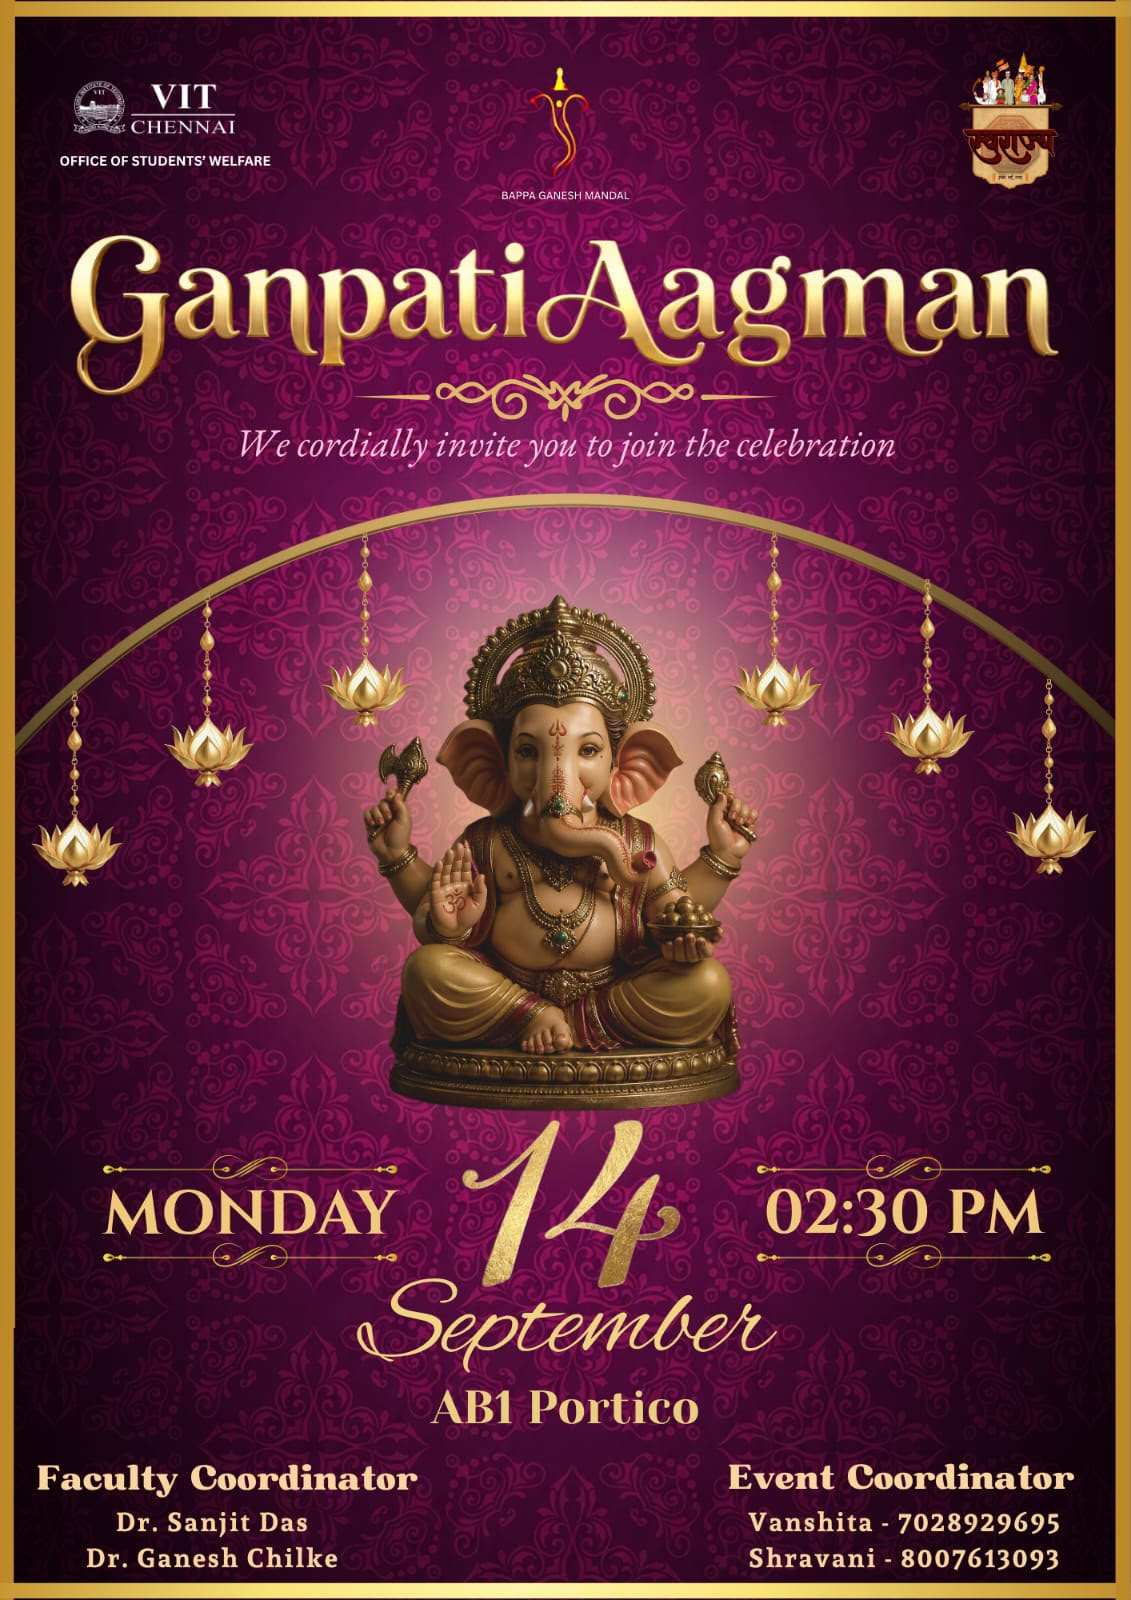
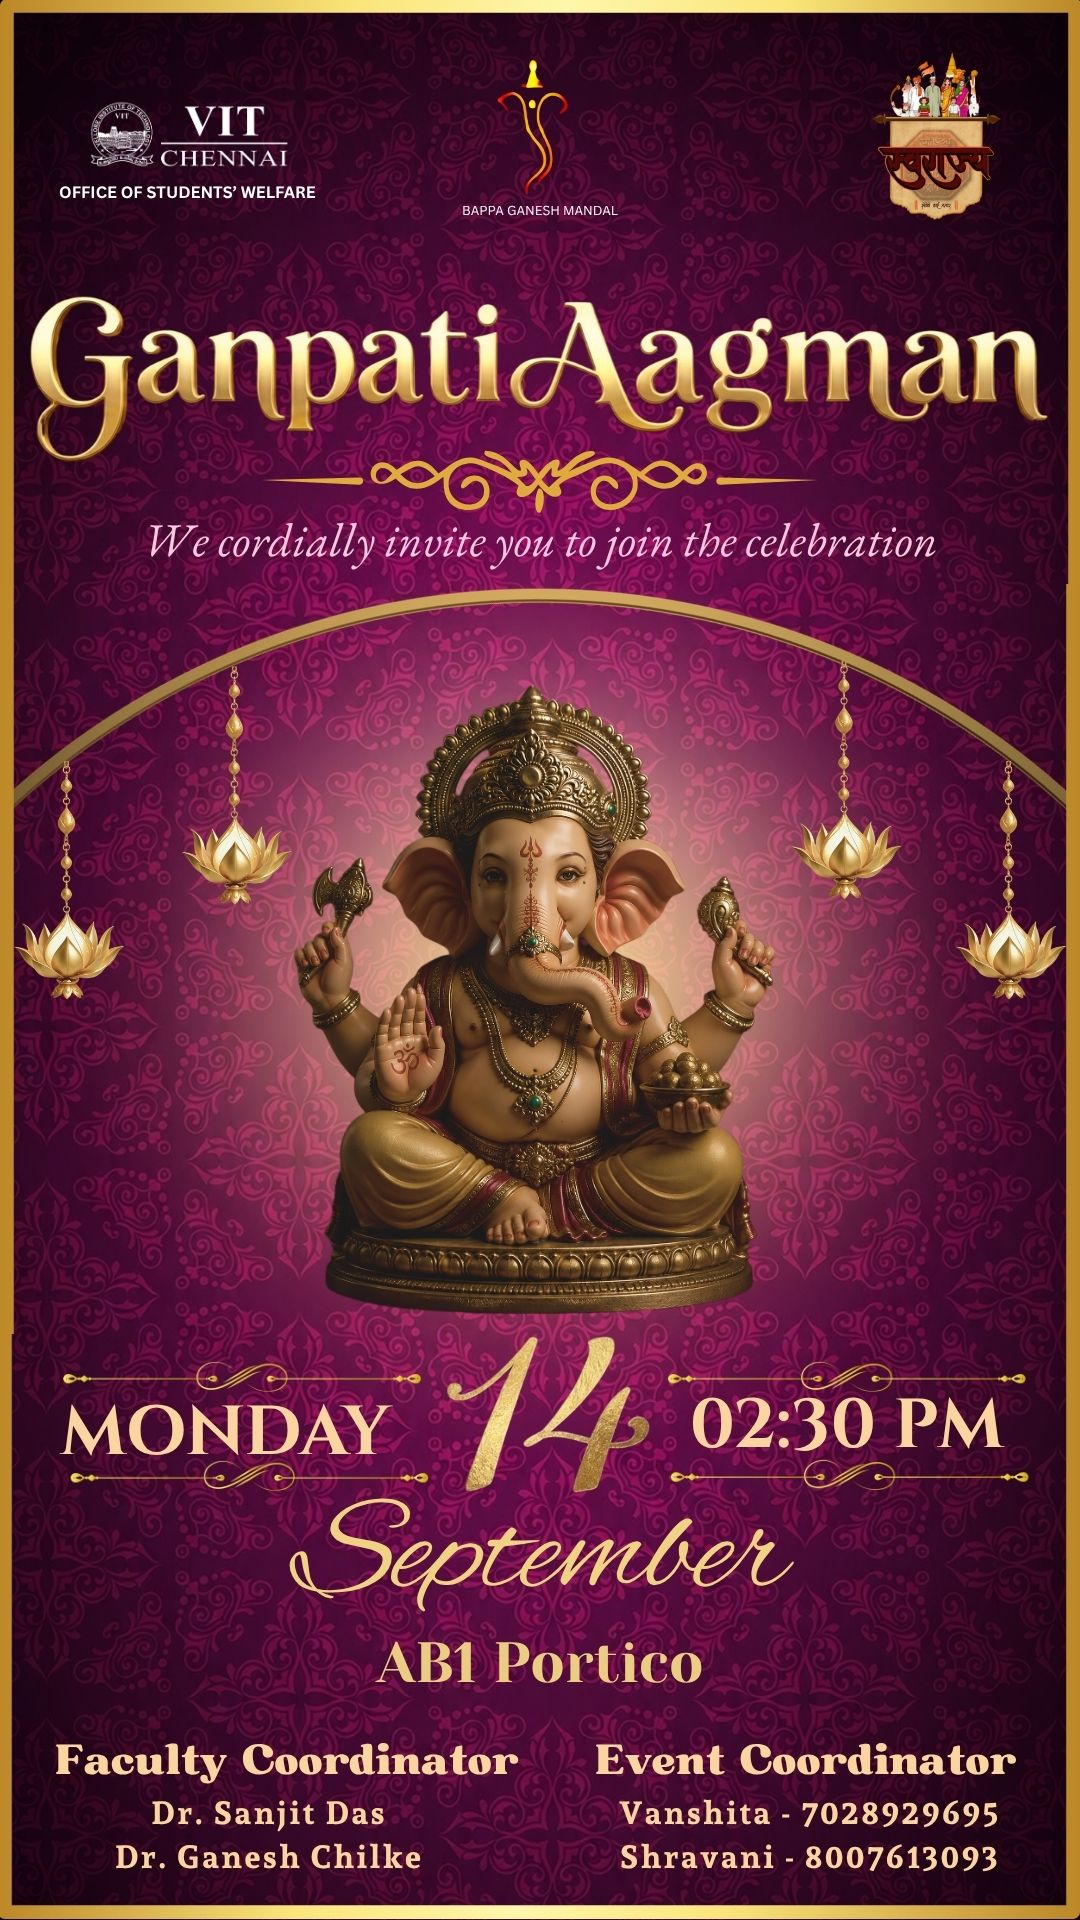
feat(events): add Dhammal Mini Games event9, sort Ganesh Chaturthi events, and adjust left margins for container and posters

diff --git a/src/pages/Events.jsx b/src/pages/Events.jsx
@@ -10,6 +10,7 @@ import newEvent5 from '../assets/events/event5.png';
 import newEvent6 from '../assets/events/event6.png';
 import newEvent7 from '../assets/events/event7.png';
 import newEvent8 from '../assets/events/event8.png';
+import newEvent9 from '../assets/events/event9.png';
 
 // Flagship Event Background
 import gudiPadwaImage from '../assets/events/Gudi_Padwa.png';
@@ -84,6 +85,16 @@ const Events = () => {
       time: "2:30 PM",
       location: "AB1 Portico",
       image: newEvent5,
+    },
+    {
+      id: '2026-9',
+      title: "Dhammal Mini Games",
+      shortDescription: "Relive the joy of traditional games with Musical Chairs, Lemon and Spoon, and Three Leg Race.",
+      fullDescription: "Relive the joy of traditional games! Bappa Ganesh Mandal presents Dhammal Mini Games featuring classic fun activities including Musical Chairs, Lemon and Spoon race, and Three Leg Race at AB1 Portico.",
+      date: "2026-09-16",
+      time: "5:30 PM",
+      location: "AB1 Portico",
+      image: newEvent9,
     },
     {
       id: '2026-6',

diff --git a/src/pages/Events.css b/src/pages/Events.css
@@ -442,6 +442,7 @@
   flex-wrap: wrap;
   gap: 15px;
   margin-bottom: 25px;
+  margin-left: 60px;
   padding-bottom: 12px;
   border-bottom: 2px solid rgba(214, 36, 36, 0.2);
 }
@@ -463,6 +464,7 @@
 
 .flagship-subheading-wrapper {
   margin-bottom: 25px;
+  margin-left: 60px;
   padding-bottom: 10px;
   border-bottom: 2px solid rgba(214, 36, 36, 0.15);
 }
@@ -575,6 +577,7 @@
   grid-template-columns: repeat(auto-fill, minmax(280px, 320px));
   gap: 30px;
   margin-top: 25px;
+  margin-left: 60px;
   align-items: stretch;
   justify-content: start;
 }
@@ -973,9 +976,19 @@
   .modal-description {
     font-size: 1rem;
   }
+
+  .events-year-heading-wrapper,
+  .flagship-subheading-wrapper {
+    margin-left: 25px;
+  }
 }
 
 @media (max-width: 480px) {
+  .events-year-heading-wrapper,
+  .flagship-subheading-wrapper {
+    margin-left: 15px;
+  }
+
   .modal-right {
     padding: 20px 15px;
   }
@@ -1030,6 +1043,7 @@
     grid-template-columns: 1fr;
     gap: 25px;
     justify-items: center;
+    margin-left: 0;
   }
 
   .event-card {

diff --git a/src/pages/Home.jsx b/src/pages/Home.jsx
@@ -26,6 +26,7 @@ import event5 from '../assets/events/event5.png';
 import event6 from '../assets/events/event6.png';
 import event7 from '../assets/events/event7.png';
 import event8 from '../assets/events/event8.png';
+import event9 from '../assets/events/event9.png';
 
 const homeEvents2026 = [
   {
@@ -62,6 +63,13 @@ const homeEvents2026 = [
     date: "September 14, 2026",
     location: "AB1 Portico",
     image: event5,
+  },
+  {
+    id: '2026-9',
+    title: "Dhammal Mini Games",
+    date: "September 16, 2026",
+    location: "AB1 Portico",
+    image: event9,
   },
   {
     id: '2026-6',
